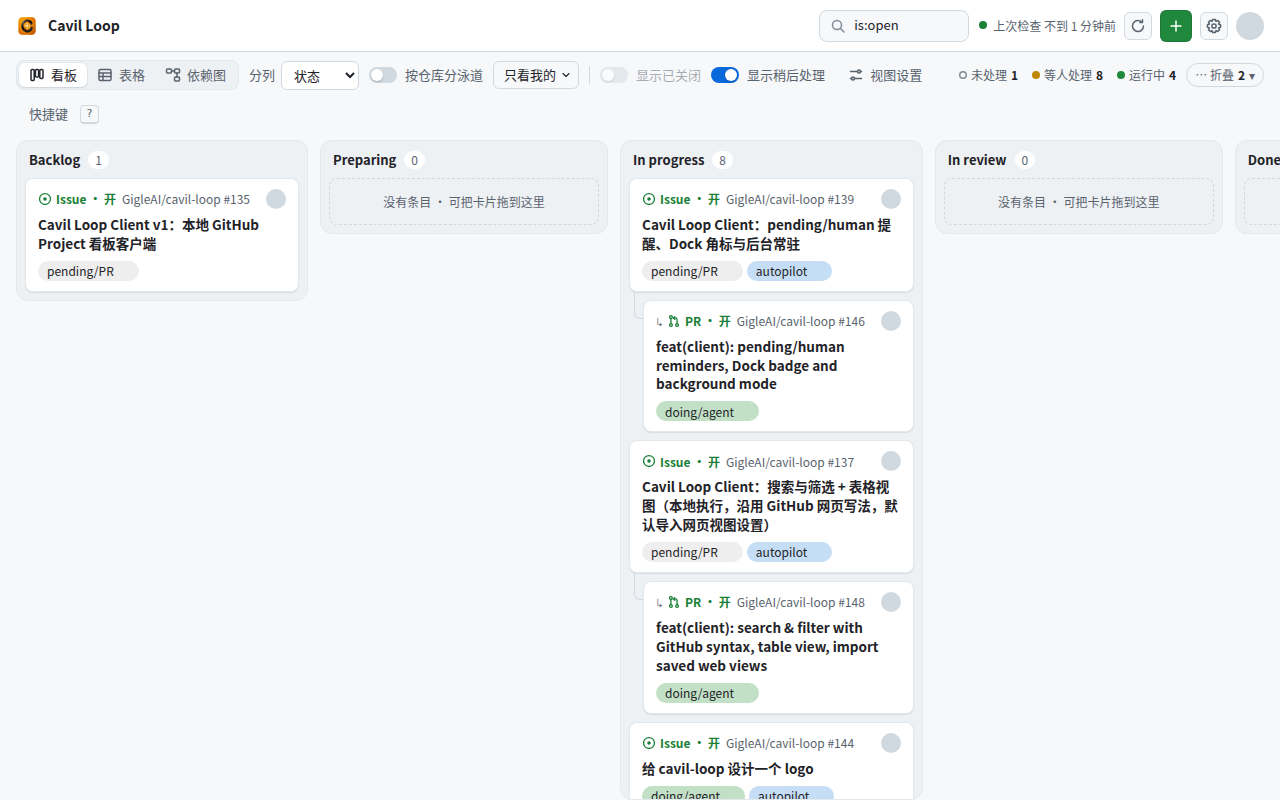
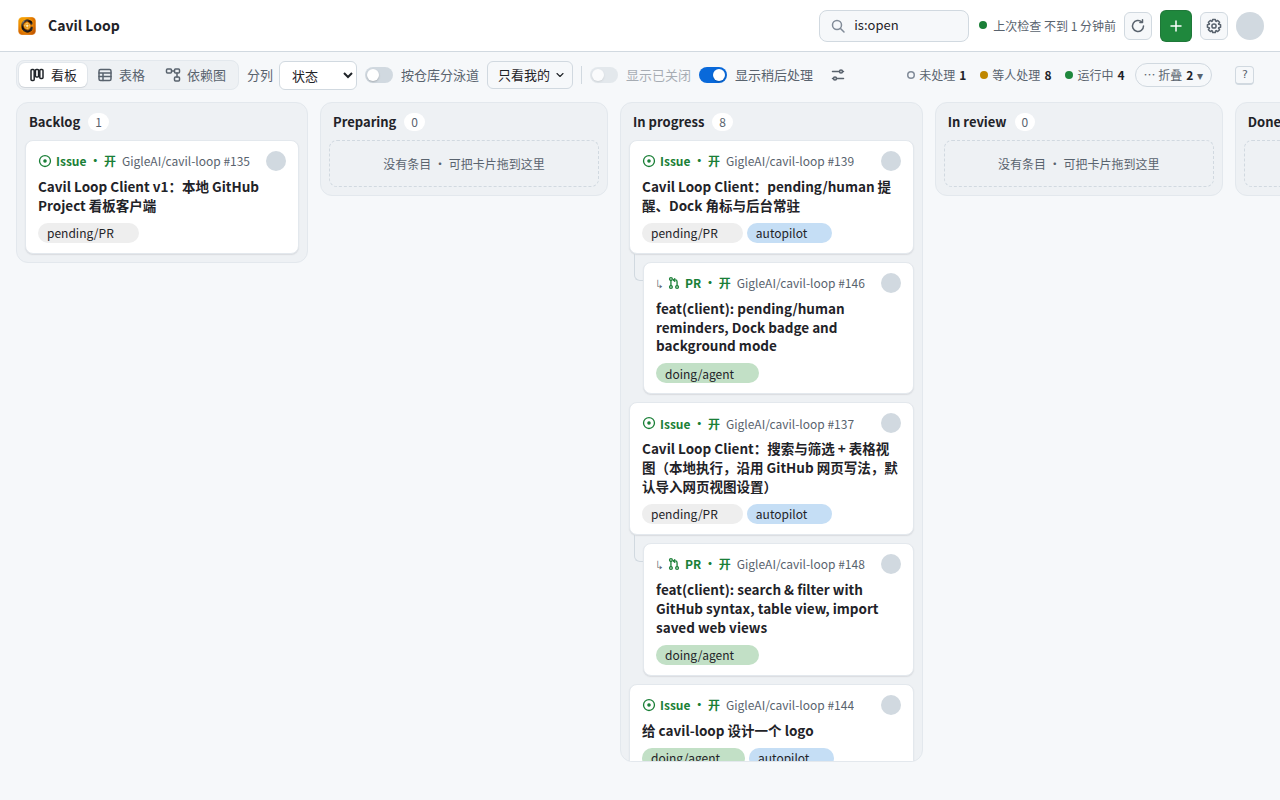
fix(client): keep the board's view bar on one line with the new switch (#741)
With 「显示稍后处理」 added, the board layout's view bar (its widest: 分列
and 泳道 too) wrapped at the 1280 px window the app opens with — 99 px
over, where the GitHub#514 check asks for 30 px to spare. In the board
layout only, 「视图设置」 and 「快捷键」 now show just their icon / key (the
words stay for screen readers and in the tooltip) and the bar's gaps are
2 px tighter; the table and the graph keep the words. Doc screenshots
re-rendered.

diff --git a/client/src/renderer/BoardView.tsx b/client/src/renderer/BoardView.tsx
@@ -569,6 +569,11 @@ export function BoardView({
   // (the lit 「稍后处理」 number included) decides instead, and the switch is greyed out. The parked label left empty
   // hides nothing, and the switch is not shown.
   const parkedOff = handBack.later.trim() === '';
+  // GitHub#741: the board layout's bar (its widest: 分列 and 泳道 too) keeps one line at the window size the app opens
+  // with only when 「视图设置」 and 「快捷键」 show just their icon / key there (the words stay for screen readers and
+  // in the tooltip) and its gaps are a little tighter (styles.css `.vbar.compact`). The table and the graph have the
+  // room and keep the words.
+  const compactBar = view.layout === 'board';
   const parkedNames = useMemo(
     () => [handBack.later, ...Object.keys(repoLabels).map((repo) => handBackFor({ handBack, repoLabels }, repo).later)],
     [handBack, repoLabels],
@@ -960,7 +965,7 @@ export function BoardView({
         )}
 
       {/* second row: how this view is laid out */}
-      <div className="vbar">
+      <div className={`vbar${compactBar ? ' compact' : ''}`}>
         <div className="seg" data-testid="layout">
           {(['board', 'table', 'graph'] as Layout[]).map((l) => (
             <button key={l} className={view.layout === l ? 'on' : ''} data-value={l} title={t('{label}（{key}）', { label: layoutLabel(l), key: keyText(LAYOUT_KEY[l]) })} onClick={() => api().setView({ layout: l })}>
@@ -1032,9 +1037,9 @@ export function BoardView({
           </label>
         )}
         {view.layout !== 'graph' && (
-          <button data-testid="open-view-panel" className={panel ? 'on' : 'ghost'} onClick={() => setPanel(!panel)}>
+          <button data-testid="open-view-panel" className={`${panel ? 'on' : 'ghost'}${compactBar ? ' vbar-icon' : ''}`} onClick={() => setPanel(!panel)} title={t('视图设置')}>
             <Icon name="sliders" />
-            {t('视图设置')}
+            <span className={compactBar ? 'sr-only' : undefined}>{t('视图设置')}</span>
           </button>
         )}
         <span className="vbar-count">
@@ -1064,8 +1069,9 @@ export function BoardView({
             {t('{n} 个条目', { n: data.items.length })}
           </span>
         </span>
-        <button className="ghost" onClick={onKeysHelp} data-testid="open-shortcuts" title={t('快捷键一览（{key}）', { key: keyText('help') })}>
-          {t('快捷键')} <kbd>?</kbd>
+        <button className={`ghost${compactBar ? ' vbar-icon' : ''}`} onClick={onKeysHelp} data-testid="open-shortcuts" title={t('快捷键一览（{key}）', { key: keyText('help') })}>
+          <span className={compactBar ? 'sr-only' : undefined}>{t('快捷键')} </span>
+          <kbd>?</kbd>
         </button>
       </div>
       {/* everything under the view bar */}

diff --git a/client/test/e2e/parked-hidden.spec.ts b/client/test/e2e/parked-hidden.spec.ts
@@ -293,6 +293,18 @@ test.describe('relations board', () => {
     await layout(page, 'board');
     if (await page.getByTestId('ended-group').count()) await page.getByTestId('ended-group').first().click();
     await expect.poll(() => cardKeys(page)).toEqual(keys(open));
+    // the board's bar (its widest) stays on one line with the switch: 「视图设置」 and 「快捷键」 show only their icon /
+    // key there, still named for screen readers and in the tooltip; the table keeps their words
+    const tops = await page.locator('.vbar > *').evaluateAll((els) => els.map((e) => e.getBoundingClientRect()).map((r) => r.top + r.height / 2));
+    expect(Math.max(...tops) - Math.min(...tops)).toBeLessThan(8);
+    await expect(page.getByTestId('open-view-panel')).toHaveAccessibleName('视图设置');
+    await expect(page.getByTestId('open-view-panel')).toHaveAttribute('title', '视图设置');
+    await expect(page.getByTestId('open-shortcuts')).toHaveAccessibleName(/快捷键/);
+    const words = (page: Page) => page.getByTestId('open-view-panel').getByText('视图设置').evaluate((e) => e.getBoundingClientRect().width);
+    expect(await words(page)).toBeLessThanOrEqual(1);
+    await shot(page, 'parked-switch-03-board');
+    await layout(page, 'table');
+    expect(await words(page)).toBeGreaterThan(20);
     await layout(page, 'graph');
     await expect(parkedToggle(page)).toBeVisible();
     for (const n of family) await expect(node(page, n)).toHaveAttribute('data-dim', 'no');

diff --git a/client/src/renderer/styles.css b/client/src/renderer/styles.css
@@ -216,6 +216,10 @@ input[type='checkbox'], input[type='radio'] { accent-color: var(--accent); margi
 .seg { display: inline-flex; padding: 2px; border-radius: 8px; background: var(--hover); border: 1px solid var(--border-muted); }
 .seg button { min-height: 24px; padding: 0 10px; border: none; border-radius: 6px; background: transparent; color: var(--muted); }
 .seg button.on { background: var(--surface); color: var(--fg); box-shadow: var(--shadow-sm), 0 0 0 1px var(--border-muted); }
+/* GitHub#741: the board layout's bar (分列, 泳道, two 显示… switches) — tighter gaps, 「视图设置」 / 「快捷键」 as icon / key
+   only, so it stays on one line at 1280 px with room for a count one digit longer (BoardView `compactBar`) */
+.vbar.compact { gap: 8px; }
+.vbar button.vbar-icon { padding: 0 8px; }
 .vbar label.inline { display: inline-flex; align-items: center; gap: 6px; color: var(--muted); }
 .vbar label.inline select { color: var(--fg); }
 .vbar .vbar-count { margin-left: auto; color: var(--muted); font-size: 12px; white-space: nowrap; }

diff --git a/docs/client.md b/docs/client.md
@@ -172,7 +172,7 @@ The search box uses GitHub's web syntax and filters the synced data locally as y
 <details><summary>Details: flow numbers in the top bar, a PR's issue shown with it, view settings</summary>
 
 - **Flow numbers**: by default, left to right, "未处理 / 等人处理 / 等 agent / 运行中 / 稍后处理" (untouched / waiting for a human / waiting for the agent / running / later). "未处理" counts open items with no label at all; the others count the items of the checked sources that carry their label ("稍后处理" counts the label set in the "暂缓" (parked) field of Settings, default `pending/later`): "等人处理" counts open and closed ones (an autopilot PR's merge closes the issue and leaves `pending/human` on it for a human to look at), the others open ones only. Click a number to filter on that label (`label:"…"`); the list follows that number's own "显示已关闭" switch, so by default it is exactly the items counted. Click it again to get your previous search back. Some numbers are kept behind the "⋯ 折叠 N" (folded) button at the end of the bar: by default "稍后处理" always is, "运行中" never is, and the others are while they count 0; a number with a condition of your own that picks just the parked label always is too, as long as every repository of the ticked sources uses that name for its parked label (with a Project ticked: as long as no repository renamed its parked label — otherwise it folds at 0, and you can set that row's "折叠" to "总是折叠" (always) in Settings); with the "暂缓" (parked) field left empty in Settings this rule is off, even when a repository has a parked label name of its own; open the button to see and click them as usual, and it lights up while the number you are filtering on is folded. Which numbers are shown, what each counts and whether it folds (each row's "折叠" (fold): 不折叠 never / 为 0 时折叠 at 0 / 总是折叠 always) is set in Settings → "顶栏计数" (top-bar numbers); the preview strip above the table shows the result over the current data as you edit, folded numbers after a "折叠区" (folded) mark.
-- **The "显示稍后处理" (show later) switch**: it sits between "显示已关闭" (show closed) and "视图设置" (view settings), is on by default, and is one switch for the board, the table and the graph (kept on this computer). Turned off, items carrying the parked label — recognised by the parked label name of the item's own repository, open or closed — are not listed on the board or in the table, also while you search for something else, and nothing brings them along (a sub-issue under its parent in the table, an issue under its PR); the repository list and group counts leave them out. The dependency graph does not count them as its entries, but when one is the parent, a sub-issue or a prerequisite of an ordinary item it is still drawn, faded, and "被 N 项挡住" (blocked by N) still counts it. The top-bar numbers are unchanged, and the tooltip on them says "另有 N 个稍后处理的条目没显示" (N more later items not shown). A search that names the parked label itself — clicking "稍后处理" (in the "⋯ 折叠 N" button), or `label:pending/later` / `-label:pending/later` with any repository's parked label name — decides instead, and the switch is greyed out. With the "暂缓" (parked) field left empty in Settings nothing is left out and the switch is not shown.
+- **The "显示稍后处理" (show later) switch**: it sits between "显示已关闭" (show closed) and "视图设置" (view settings), is on by default, and is one switch for the board, the table and the graph (kept on this computer). Turned off, items carrying the parked label — recognised by the parked label name of the item's own repository, open or closed — are not listed on the board or in the table, also while you search for something else, and nothing brings them along (a sub-issue under its parent in the table, an issue under its PR); the repository list and group counts leave them out. The dependency graph does not count them as its entries, but when one is the parent, a sub-issue or a prerequisite of an ordinary item it is still drawn, faded, and "被 N 项挡住" (blocked by N) still counts it. The top-bar numbers are unchanged, and the tooltip on them says "另有 N 个稍后处理的条目没显示" (N more later items not shown). A search that names the parked label itself — clicking "稍后处理" (in the "⋯ 折叠 N" button), or `label:pending/later` / `-label:pending/later` with any repository's parked label name — decides instead, and the switch is greyed out. With the "暂缓" (parked) field left empty in Settings nothing is left out and the switch is not shown. In the board layout, whose view bar is the widest, "视图设置" (view settings) and "快捷键" (shortcuts) show only their icon / `?` key so the bar stays on one line; hover them for the name.
 - **A PR's issue comes along when only the PR matches**: while the search box holds a condition (a lit top-bar number included) and "PRs under their issue" is on, a PR that matches whose linked issue does not brings that issue along on the board and in the table, the PR indented under it as usual. The issue is faded: a dashed card with the line "随 PR 显示 · 不在筛选结果里" (shown with its PR · not a search match) on the board, a "随 PR 显示" tag at the end of its table row; it does not drag, and opens as usual. Only issues already read come along, one per PR (the first in the current sort that may take the PR; none when the PR already sits under a matching issue), only from the picked repository when one is picked, and a carried issue brings none of its own sub-issues. In the table with sub-issues indented, an issue that already comes along as a sub-issue of a matching issue stays there (one row per group) and the PR goes under it. The top-bar numbers and "搜索命中 N 条" (N search matches) count matches only; column, group and repository-section counts count what is shown, faded items included; the numbers' tooltip adds "另有 N 个 issue 随命中的 PR 显示" (N more issues shown with matching PRs).
 - **View settings**: column / grouping mode, sort (including "Project 里的顺序", the Project's own order), which columns to show, PRs under issues, sub-issues indented. The search text and view settings are remembered across restarts.
 

diff --git a/docs/client.zh.md b/docs/client.zh.md
@@ -172,7 +172,7 @@ Cavil Loop 客户端是一个管理 GitHub issue / PR 的桌面 App（macOS、Wi
 <details><summary>细节：顶栏的流程数字、随 PR 显示的 issue、视图设置</summary>
 
 - **流程数字**：默认从左到右是「未处理 / 等人处理 / 等 agent / 运行中 / 稍后处理」：「未处理」数开着、一个标签都没有的，其余各自数勾选的来源里有几条带对应标签（「稍后处理」数设置里「暂缓」那一格的标签，默认 `pending/later`）：「等人处理」开着的和已关闭的都数（托管 PR 合并时 issue 会关掉、留着 `pending/human` 提醒人看），其余只数开着的。点一个数，搜索框换成那个标签的筛选（`label:"…"`），列表按这个数自己的「显示已关闭」开关显示，所以默认正好是数到的那些；再点一次回到原来的搜索。有些数收在顶栏末尾的「⋯ 折叠 N」按钮里：默认「稍后处理」总是收着，「运行中」一直摊开，其余数到 0 个时收起；自己写条件、只筛一个暂缓标签的数也总是收着，前提是勾选的来源里每个仓库都用这个名字当暂缓标签（勾了 Project 时，要求没有仓库给暂缓标签改过名，否则照「为 0 时折叠」，可以在设置里把这一行的「折叠」选成「总是折叠」）；设置里「暂缓」那一格留空时这条规则不起作用，哪怕某个仓库有自己的暂缓标签名；点开按钮照样能看、能点，正在筛选的数被收起时这个按钮会高亮。显示哪几个数、各自数什么、要不要收起（每行的「折叠」：不折叠 / 为 0 时折叠 / 总是折叠），在设置 →「顶栏计数」里改，表格上方的预览条按当前数据实时显示改完的样子，收起的数排在「折叠区」后面。
-- **「显示稍后处理」开关**：在「显示已关闭」和「视图设置」之间，默认打开，看板、表格、依赖图共用这一个开关（存在本机）。关掉后，挂着暂缓标签的条目——按条目所在仓库自己的暂缓标签名认，开着的、已关闭的都算——不在看板和表格里列出，搜别的条件时也不列，也不会被别的条目带出来（表格父 issue 下的子 issue、PR 下的 issue）；仓库栏、分组旁的数字不算它们。依赖图不把它们当作图上的条目，但它们是某个正常条目的父 / 子 / 前置时，照样淡色画出，「被 N 项挡住」照旧算它们。顶栏各个数字不受影响，鼠标停在顶栏数字上会写明「另有 N 个稍后处理的条目没显示」。搜索框自己写了暂缓标签时——点「稍后处理」（收在「⋯ 折叠 N」里），或写 `label:pending/later`、`-label:pending/later`（任一仓库自己的暂缓标签名都算）——以搜索框为准，开关变灰。设置里「暂缓」那一格留空时，什么都不藏，也不显示这个开关。
+- **「显示稍后处理」开关**：在「显示已关闭」和「视图设置」之间，默认打开，看板、表格、依赖图共用这一个开关（存在本机）。关掉后，挂着暂缓标签的条目——按条目所在仓库自己的暂缓标签名认，开着的、已关闭的都算——不在看板和表格里列出，搜别的条件时也不列，也不会被别的条目带出来（表格父 issue 下的子 issue、PR 下的 issue）；仓库栏、分组旁的数字不算它们。依赖图不把它们当作图上的条目，但它们是某个正常条目的父 / 子 / 前置时，照样淡色画出，「被 N 项挡住」照旧算它们。顶栏各个数字不受影响，鼠标停在顶栏数字上会写明「另有 N 个稍后处理的条目没显示」。搜索框自己写了暂缓标签时——点「稍后处理」（收在「⋯ 折叠 N」里），或写 `label:pending/later`、`-label:pending/later`（任一仓库自己的暂缓标签名都算）——以搜索框为准，开关变灰。设置里「暂缓」那一格留空时，什么都不藏，也不显示这个开关。看板布局的视图栏最宽，「视图设置」和「快捷键」在那里只显示图标 / `?` 键，让视图栏保持一行，鼠标停上去能看到名字。
 - **只命中 PR 时带出所属 issue**：搜索框里有条件（点亮顶栏的数也算）、并且开着「PR 跟在 issue 下」时，一个 PR 命中了、它关联的 issue 没命中，看板和表格会把这个 issue 也显示出来，PR 照常缩进在它下面。带出来的 issue 变淡：看板上是虚线框加一行小字「随 PR 显示 · 不在筛选结果里」，表格行尾标「随 PR 显示」；不能拖动，点开照常。只带已经读到的 issue，一个 PR 只带一个（按当前排序取第一个能接 PR 的；PR 已经挂在一个命中的 issue 下就不再带），选了单个仓库时只带这个仓库的；带出来的 issue 不再往下带它的子 issue。表格开着「子 issue 缩进」时，如果这个 issue 本来就会作为命中 issue 的子 issue 带出来，它就留在那个位置（同一组只画一行），PR 跟到它下面。顶栏的数和「搜索命中 N 条」只数命中的；列头、组头、仓库分段的数数的是显示出来的条目，含淡色的；数字的悬停提示末尾另写「另有 N 个 issue 随命中的 PR 显示」。
 - **视图设置**：分列 / 分组方式、排序（含「Project 里的顺序」）、显示哪些列、PR 是否跟在 issue 下、子 issue 是否缩进。搜索文字和视图设置都会记住，重开 App 还在。
 

diff --git a/client/RELEASE_NOTES.md b/client/RELEASE_NOTES.md
@@ -4,7 +4,7 @@
 
 ### 这一版（0.5）
 
-- **「稍后处理」的条目默认照常显示，视图栏多一个「显示稍后处理」开关**（GitHub#741）：之前搜索框空着时，挂着暂缓标签（默认 `pending/later`）的条目一律不列出，界面上也看不出有东西被藏了。现在默认照常列出；视图栏在「显示已关闭」和「视图设置」之间多了「显示稍后处理」开关，关掉后看板、表格里不再列出它们（搜别的条件时也不列，也不随父 issue / PR 带出来），依赖图只在它们和别的条目有关系时淡色画出。看板、表格、依赖图共用这一个开关，存在本机。搜索框自己写了暂缓标签（点亮顶栏「稍后处理」，或写 `label:pending/later`、`-label:pending/later`）时以搜索框为准，开关变灰；设置里「暂缓」一格留空时不显示这个开关。
+- **「稍后处理」的条目默认照常显示，视图栏多一个「显示稍后处理」开关**（GitHub#741）：之前搜索框空着时，挂着暂缓标签（默认 `pending/later`）的条目一律不列出，界面上也看不出有东西被藏了。现在默认照常列出；视图栏在「显示已关闭」和「视图设置」之间多了「显示稍后处理」开关，关掉后看板、表格里不再列出它们（搜别的条件时也不列，也不随父 issue / PR 带出来），依赖图只在它们和别的条目有关系时淡色画出。看板、表格、依赖图共用这一个开关，存在本机。搜索框自己写了暂缓标签（点亮顶栏「稍后处理」，或写 `label:pending/later`、`-label:pending/later`）时以搜索框为准，开关变灰；设置里「暂缓」一格留空时不显示这个开关。为了让看板布局的视图栏在默认窗口宽度下仍是一行，「视图设置」和「快捷键」在看板布局里只显示图标 / `?` 键（鼠标停上去显示名字），表格和依赖图不变。
 - **仓库来源读得到早就关闭的 issue / PR**（GitHub#718）：以前仓库来源只读开着的、近 14 天有更新的、挂着「等人处理」标签的已关闭条目，更早关闭的从来读不到——打开「显示已关闭」或搜一个一个多月前合并的 PR 都找不到。现在加上仓库后第一次同步会读全部历史（已经加着的仓库，升级后的第一轮同步补读一次），之后照常每分钟只读变化、每 10 分钟读开着的和近期的，旧条目沿用上次读到的内容，大约每小时再读一遍全部历史。在 GitHub 上删掉或转走的旧条目最多要等约一小时才从客户端里去掉。已关闭条目照旧默认不显示；Project 来源不变。
 - **这一版换了自动更新用的签名钥匙，已经装着的要手动重装一次**：Mac 的安装包从这一版起用 Gigle 的 Developer ID 签名、在维护者自己的 Mac 上打包，开发版也有 Intel 的包；自动更新改用新的签名钥匙。之前装的版本认不出新钥匙签的包，检查更新时会报「签名校验失败」：从发版页下载这一版的 dmg（或 Windows 安装包）装一次，之后照常自动更新。
 - **设置分「常用 / 高级」，说明文字收进 ⓘ**（GitHub#591）：设置页左侧目录分两段，「流程标签」「顶栏计数」「快捷键」「远程 daemon」收进页面最底下的「高级设置」，每次进设置都收着，点目录里的这几项（或快捷键一览的「在设置里改快捷键」）会先展开再跳过去；Windows 上「远程 daemon」仍算常用。常用卡片里不常用的选项再收进卡片内的「高级」（提醒的「切到 App 时收起全部系统通知」、本机 daemon 的依赖检查、账号的登录方式和 Client ID；依赖缺东西、Client ID 没填或填错时自动展开）。「项目配置」窗口打开时只显示 18 项常用设置，每组不常用的收在组末「高级」里，派工挑选、流程标签、预览、轮询等 8 组 40 项收在窗口底部「高级设置」里；改过或填错的值所在的那块不会收起。两处每一项下面那行说明都换成名字旁的 ⓘ：鼠标移上去、用 Tab 移到它上面或点一下显示，Esc 或再点一下收起；「这里不改它」的原因、警告和出错、「按下去会怎样」的提示照旧直接显示。项目配置里哪项算常用由 daemon 的登记表定，接的是还没更新的 daemon 时全部照旧直接显示。
